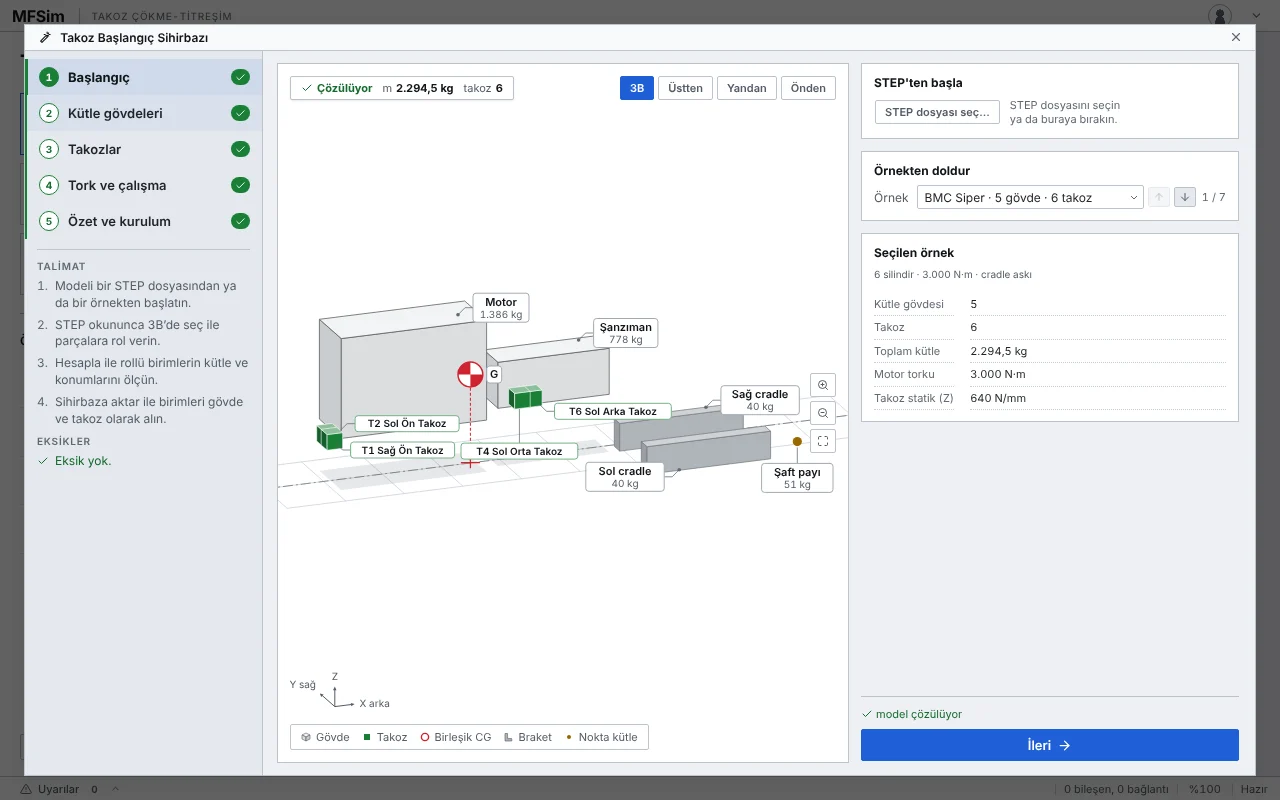
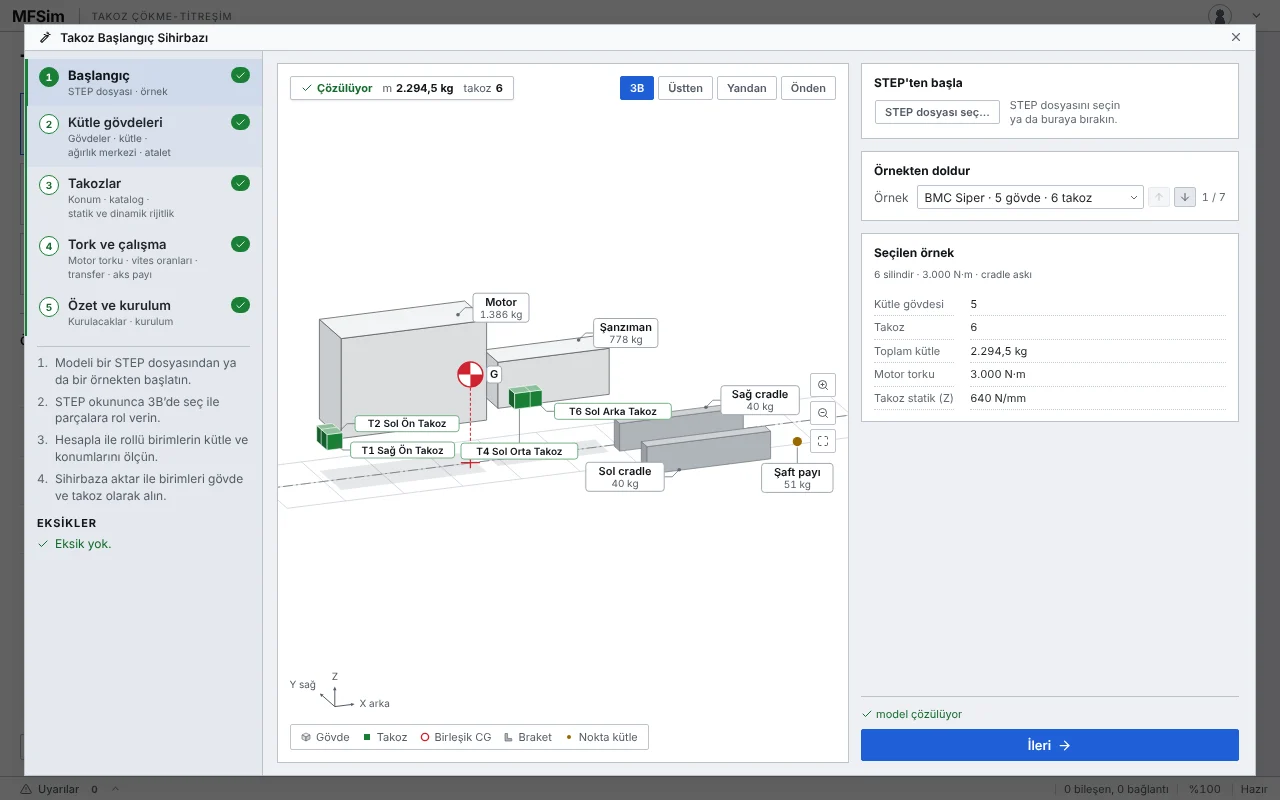
Takoz kılavuzu: sihirbazın girilenleri ve başlıksız talimatı (Canlı Not 95 · 96)
Ana dalda sihirbazın adım satırına girilenler geldi, talimatın başlığı
kalktı, Eksikler başlığı kalınlaştı: sihirbazın görüntüsü yenilendi,
talimatın işareti listeye taşındı. Talimat ve Eksikler işaretleri
çerçevesiz — çerçeve maddelerin numarasını örtüyordu.

Claude-Session: https://claude.ai/code/session_01KpdSQSTHrzXTJ4XLzBsthJ

Changed region(s): [[0.0312, 0.0938, 0.2188, 0.6875], [0.1562, 0.125, 0.2188, 0.1875]]

diff --git a/js/guide-mount.js b/js/guide-mount.js
@@ -536,7 +536,7 @@ var _GM_GORUNUM = [
 ];
 
 var _GM_SIHIRBAZ = [
-  { k: 'adimlar', ad: 'Adımlar', not: 'Rozet adımın eksik sayısı; yeşil onay tamam.', yer: 'alt' },
+  { k: 'adimlar', ad: 'Adımlar', not: 'Adın altında adımda girilenler; rozet eksik sayısı, yeşil onay tamam.', yer: 'alt' },
   { k: 'masa', ad: 'Önizleme', not: 'Modelin aksonometrik çizimi, adım adım dolar.', cerceve: false, yer: 'alt' },
   { k: 'durum', ad: 'Çözülebilirlik', not: 'Çözülüyor ya da Çözülemiyor; toplam kütle, takoz sayısı.' },
   { k: 'gorunus', ad: '3B · Üstten · Yandan · Önden', not: 'Önizlemenin bakışı.', yer: 'sag' },
@@ -544,8 +544,8 @@ var _GM_SIHIRBAZ = [
   { k: 'ornek', ad: 'Örnekten doldur', not: 'Kayıtlı örneklerden biri; oklar listede gezer.', yer: 'sag' },
   { k: 'ileri', ad: 'İleri', not: 'Sonraki adım; son adımda Modeli kur.', yer: 'sol-orta' },
   { k: 'kapat', ad: 'Kapat', not: 'Sihirbazı kapatır; tuval değişmez.', yer: 'sol-orta' },
-  { k: 'talimat', ad: 'Talimat', not: 'Açık adımda yapılacaklar, sırayla.', yer: 'sag-orta' },
-  { k: 'eksikler', ad: 'Eksikler', not: 'Adımın eksik ve hatalı girdileri, sayısıyla; yoksa Eksik yok.', yer: 'sag-orta' }
+  { k: 'talimat', ad: 'Talimat', not: 'Açık adımda yapılacaklar, sırayla.', cerceve: false, yer: 'sag-dis' },
+  { k: 'eksikler', ad: 'Eksikler', not: 'Adımın eksik ve hatalı girdileri, sayısıyla; yoksa Eksik yok.', cerceve: false, yer: 'sag-orta' }
 ];
 
 var _GM_3B_HIZLI = [
@@ -1344,8 +1344,8 @@ function _gmSec15(){
     _gmN(_GM_SIHIRBAZ, 'ileri') + ' <strong>İleri</strong> ile adımları sırayla doldurun. Soldaki '
       + _gmN(_GM_SIHIRBAZ, 'adimlar') + ' listede her adımın rozeti eksik sayısıdır; adıma tıklamak oraya '
       + 'gider.',
-    'Her adımda listenin altındaki ' + _gmN(_GM_SIHIRBAZ, 'talimat') + ' <strong>Talimat</strong>’ı izleyin: '
-      + 'o adımda yapılacaklar sırayla, denetimler ekrandaki adıyla. ' + _gmN(_GM_SIHIRBAZ, 'eksikler')
+    'Her adımda listenin altındaki ' + _gmN(_GM_SIHIRBAZ, 'talimat') + ' talimatı izleyin: o adımda '
+      + 'yapılacaklar sırayla, denetimler ekrandaki adıyla. ' + _gmN(_GM_SIHIRBAZ, 'eksikler')
       + ' <strong>Eksikler</strong> adımın eksik ve hatalı girdilerini sayısıyla listeler; eksik yoksa '
       + '<em>Eksik yok.</em> yazar.',
     'Son adımda <strong>Modeli kur</strong>’a basın. Ekranda: sihirbaz kapanır, model tuvale kurulur; '

diff --git a/tools/kilavuz-resim.js b/tools/kilavuz-resim.js
@@ -145,8 +145,8 @@ const DURAKLAR = [
       ornek: '#ve-mw-yan .ve-mw-ornek',
       ileri: '#ve-mw-eylem .ve-fw-btn-primary',
       kapat: '#ve-mw-title ~ .ve-settings-close',
-      talimat: '#ve-mw-nav .ve-mw-talimat > h3:nth-of-type(1)',
-      eksikler: '#ve-mw-nav .ve-mw-talimat > h3:nth-of-type(2)',
+      talimat: '#ve-mw-nav .ve-mw-talimat-liste',
+      eksikler: '#ve-mw-nav .ve-mw-talimat > h3.ve-mw-talimat-bas',
     },
     async kur(p) {
       await p.click('.ve-module-card[data-module="mount-analysis"]');
